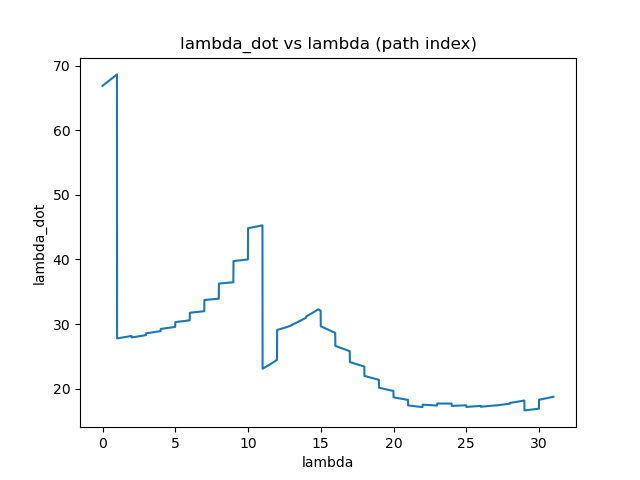
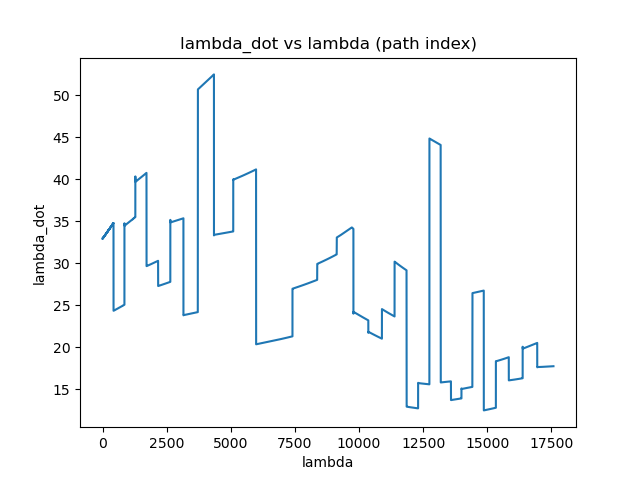
graph

diff --git a/constraint_solver/cs_constraint.py b/constraint_solver/cs_constraint.py
@@ -7,10 +7,10 @@ import matplotlib.pyplot as plt
 sys.path.append('../toolbox')
 from robot_def import *
 
-def find_dlam_max(qd_prev,qs,qe):
-	global joint_vel_limit, resolution
-	ps=fwd(qs)
-	pe=fwd(qe)
+def find_dlam_max(start,end):
+	global joint_vel_limit, curve_js, breakpoints
+	ps=fwd(curve_js[start])
+	pe=fwd(curve_js[end])
 
 	R_diff=np.dot(ps.R.T,pe.R)
 	k,theta=R2rot(R_diff)
@@ -20,35 +20,17 @@ def find_dlam_max(qd_prev,qs,qe):
 	dlam_max=[]
 	ddlam_max=[]
 	dlam_act=[0]
-	resolution=100
 
-	for r in range(resolution-1):
-		###interpolation
-		p_temp=((resolution-r)*ps.p+r*pe.p)/resolution
-		theta_temp=r*theta/resolution
-		R_temp=np.dot(ps.R,q2R(rot2q(k,theta_temp)))
+	for r in range(start,end):
 
-		###solve best inv config
-		q_all=np.array(inv(p_temp,R_temp))
-
-		###choose inv_kin closest to previous joints
-		try:
-			temp_q=q_all-qs
-			order=np.argsort(np.linalg.norm(temp_q,axis=1))
-			q_interp=q_all[order[0]]
-
-		except:
-			traceback.print_exc()
-			pass
-
-		J=jacobian(q_interp)
+		J=jacobian(curve_js[r])
 		dlam_max.append(np.min(joint_vel_limit/np.abs(np.dot(np.linalg.inv(J),moving_direction))))
 
 	return dlam_max
 
 def main():
 	col_names=['X', 'Y', 'Z','direction_x','direction_y','direction_z'] 
-	data = read_csv("../data/original/Curve_in_base_frame.csv", names=col_names)
+	data = read_csv("../data/from_cad/Curve_in_base_frame.csv", names=col_names)
 	curve_x=data['X'].tolist()
 	curve_y=data['Y'].tolist()
 	curve_z=data['Z'].tolist()
@@ -59,25 +41,25 @@ def main():
 	curve_direction=np.vstack((curve_direction_x, curve_direction_y, curve_direction_z))
 
 	col_names=['q1', 'q2', 'q3','q4', 'q5', 'q6'] 
-	data = read_csv("../data/original/Curve_js.csv", names=col_names)
+	data = read_csv("../data/from_cad/Curve_js.csv", names=col_names)
 	curve_q1=data['q1'].tolist()
 	curve_q2=data['q2'].tolist()
 	curve_q3=data['q3'].tolist()
 	curve_q4=data['q4'].tolist()
 	curve_q5=data['q5'].tolist()
 	curve_q6=data['q6'].tolist()
+	global curve_js, breakpoints, joint_vel_limit
 	curve_js=np.vstack((curve_q1, curve_q2, curve_q3,curve_q4,curve_q5,curve_q6)).T
+	breakpoints=[0, 428, 854, 1279, 1714, 2166, 2643, 3154, 3714, 4344, 5096, 5986, 7405, 8368, 9129, 9781, 10362, 10892, 11385, 11852, 12303, 12743, 13182, 13583, 13993, 14418, 14863, 15335, 15838, 16379, 16947, 17580]
 
-	global joint_vel_limit, resolution
 	joint_vel_limit=np.radians([110,90,90,150,120,235])
 	dlam_max=[]
 
-	resolution=100
-	for lam in range(len(curve_js)-1):
-		dlam_max+=find_dlam_max(curve_js[lam],curve_js[lam+1])
+	for i in range(len(breakpoints)-1):
+		dlam_max+=find_dlam_max(breakpoints[i],breakpoints[i+1])
 
 
-	lam=np.arange(0,len(curve_js)-1,1./(resolution-1))
+	lam=np.arange(0,len(curve_js)-1)
 	plt.plot(lam,dlam_max)
 	plt.xlabel("lambda")
 	plt.ylabel("lambda_dot")

diff --git a/constraint_solver/js_constraint.py b/constraint_solver/js_constraint.py
@@ -28,6 +28,7 @@ def main():
 	dlam_max=[]
 	ddlam_max=[]
 	dlam_act=[0]
+	limiting_joint=[]
 	qd_prev=np.zeros(6)
 
 	for i in range(len(breakpoints)-1):
@@ -35,6 +36,7 @@ def main():
 		dq=np.abs(curve_js[breakpoints[i+1]]-curve_js[breakpoints[i]])
 
 		t=np.max(dq/joint_vel_limit)
+		limiting_joint.append(np.argmax(dq/joint_vel_limit))
 		qd_max=dq/t
 		q_prime=dq/1	
 		dlam_max+=[qd_max[0]/q_prime[0]]*(breakpoints[i+1]-breakpoints[i])
@@ -53,10 +55,11 @@ def main():
 			else:
 				dlam_act.append(dlam_max[-1])
 
+	print(limiting_joint)
 	dlam_act.pop(0)
 	lam=np.arange(0,len(curve_js)-1)
 	plt.plot(lam,dlam_max,label="lambda_dot_max")
-	plt.plot(lam,dlam_act,label="lambda_dot_act")
+	# plt.plot(lam,dlam_act,label="lambda_dot_act")
 	plt.legend()
 	plt.xlabel("lambda")
 	plt.ylabel("lambda_dot")
